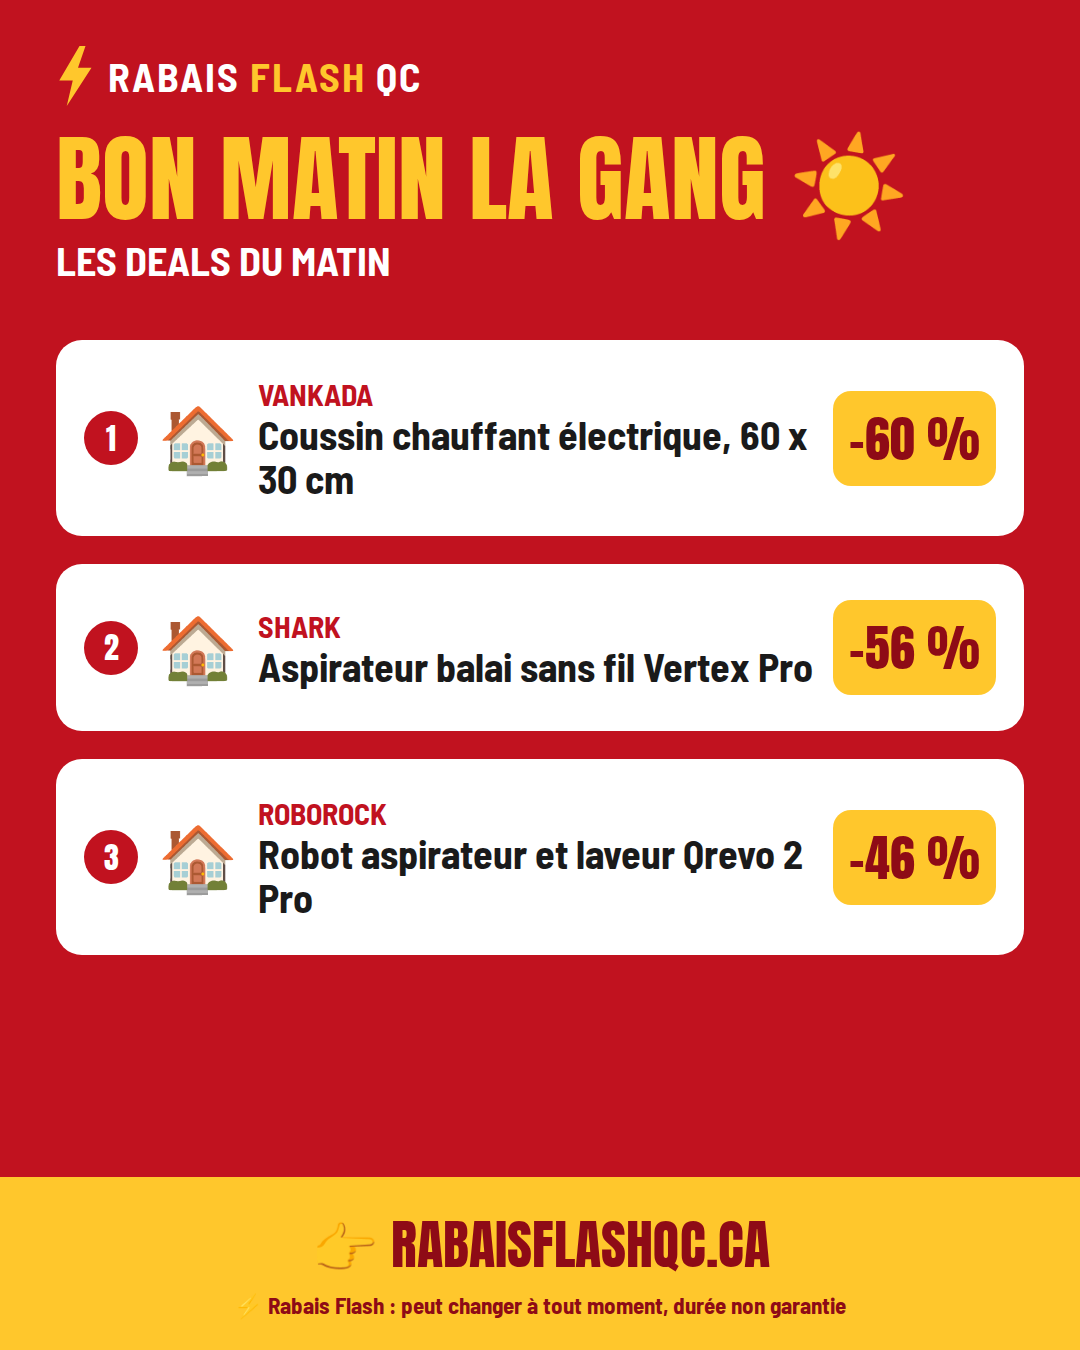
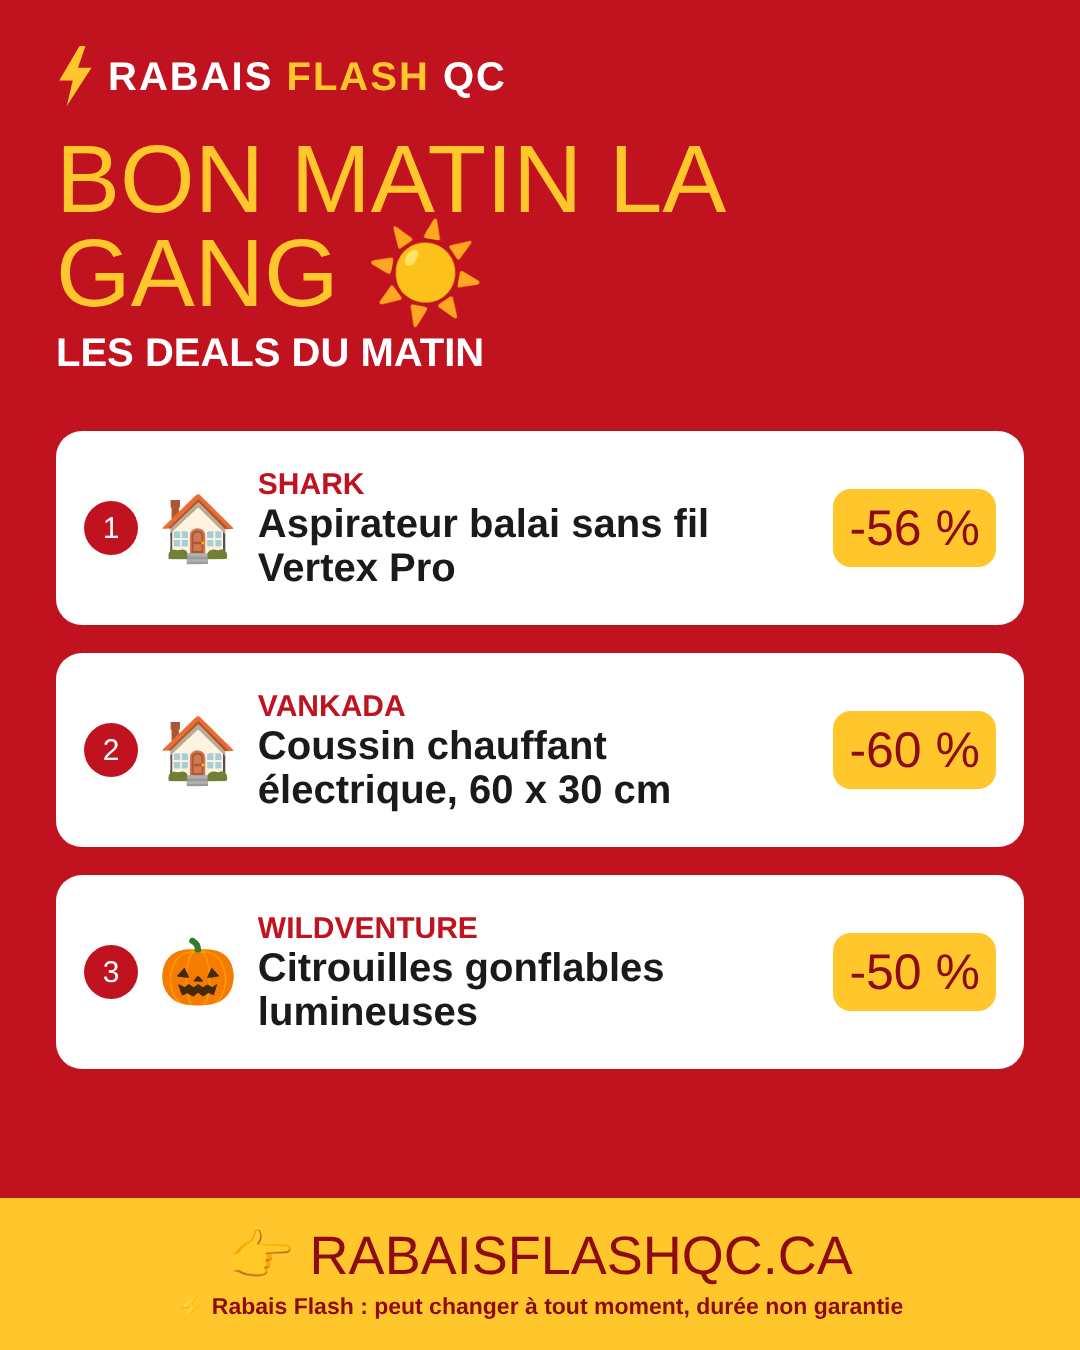
Top 5 mis a jour: mix maison, Halloween, animaux; pack du matin regenere
Claude-Session: https://claude.ai/code/session_01DR6gpqshLdvyi6vrRKu2Nf

diff --git a/docs/index.html b/docs/index.html
@@ -77,11 +77,11 @@ body.hw .social a{background:#140A1F;color:#FFD9B8;border-color:#FF7518}body.hw 
 <main class="wrap"><nav aria-label="Thèmes"><a href="/" aria-current="page">Accueil</a><a href="/halloween/">🎃 Halloween</a><a href="/vendredi-fou/">Vendredi fou</a><a href="/idees-cadeaux/">Cadeaux</a><a href="/beaute/">Beauté</a><a href="/mode/">Mode</a><a href="/enfants/">Enfants</a><a href="/epicerie/">Épicerie</a><a href="/maison/">Maison</a><a href="/plein-air/">Plein air</a><a href="/tech/">Tech</a><a href="/animaux/">Animaux</a></nav>
 <div class="clubbar"><span>🔔 Alertes gratuites :</span><a href="https://www.facebook.com/rabaisflashqc" target="_blank" rel="noopener">👍 Aime la page</a><a href="https://m.me/61566039092981" target="_blank" rel="noopener">💬 Messenger</a></div>
 
-<a class="hwcta" href="/halloween/"><div><strong>ENTRE DANS LA ZONE HALLOWEEN</strong><span>Costumes, déco, bonbons et maquillage 👻</span></div><em aria-hidden="true">🎃</em></a><section class="topbox" aria-label="Le Top 5 du jour"><h2>⭐ Le Top 5 du jour</h2><p class="topsub">Nos coups de cœur du moment, choisis un par un. Les rabais peuvent changer à tout moment : clique vite!</p><ol class="top5"><li class="deal" data-price="23.99"><div class="tag">-60%<small>sur Amazon</small></div><div><p class="badges"><span>Offre à durée limitée</span><span>Idée cadeau</span></p><p class="brand">Vankada</p><h3>Coussin chauffant électrique, 60 x 30 cm</h3><p class="why">Plusieurs températures et minuterie, plus de 10 000 avis. Parfait pour les soirées froides qui s&#x27;en viennent.</p><a class="go" href="https://www.amazon.ca/dp/B0CZ6J4LG5?tag=coupdecoeurqc-20" target="_blank" rel="sponsored nofollow noopener">Voir le prix sur Amazon.ca</a></div></li><li class="deal"><div class="tag">-56%<small>sur Amazon</small></div><div><p class="brand">Shark</p><h3>Aspirateur balai sans fil Vertex Pro (IZ662H)</h3><p class="why">Fini de traîner l&#x27;aspirateur à fil de pièce en pièce. Celui-là se promène sans fil, avec plus de 50 % de rabais. Ton dimanche va te dire merci.</p><a class="go" href="https://www.amazon.ca/dp/B098RH3LTB?tag=coupdecoeurqc-20" target="_blank" rel="sponsored nofollow noopener">Voir le prix sur Amazon.ca</a></div></li><li class="deal" data-price="699.99"><div class="tag">-46%<small>sur Amazon</small></div><div><p class="badges"><span>Offre à durée limitée</span><span>Idée cadeau</span></p><p class="brand">Roborock</p><h3>Robot aspirateur et laveur Qrevo 2 Pro</h3><p class="why">Imagine rentrer à la maison et que le plancher soit déjà propre. Il aspire, lave, puis nettoie ses propres vadrouilles, presque à moitié prix.</p><a class="go" href="https://www.amazon.ca/dp/B0GXFHY7Y2?tag=coupdecoeurqc-20" target="_blank" rel="sponsored nofollow noopener">Voir le prix sur Amazon.ca</a></div></li><li class="deal" data-price="529.95"><div class="tag">-41%<small>sur Amazon</small></div><div><p class="badges"><span>Offre Prime en demande</span><span>Idée cadeau</span></p><p class="brand">Vitamix</p><h3>Mélangeur professionnel Propel 750</h3><p class="why">Le blender dont tout le monde parle, bien sous son prix conseillé. Des smoothies le matin, une soupe chaude en 10 minutes le soir.</p><a class="go" href="https://www.amazon.ca/dp/B0BWSJVTCJ?tag=coupdecoeurqc-20" target="_blank" rel="sponsored nofollow noopener">Voir le prix sur Amazon.ca</a></div></li><li class="deal" data-price="7.97"><div class="tag">-36%<small>sur Amazon</small></div><div><p class="badges"><span>Offre réservée Prime</span></p><p class="brand">DreamBone</p><h3>Bâtonnets sans céréales au poulet (10)</h3><p class="why">Parce que ton chien mérite mieux que du cuir brut. Du vrai poulet, sans céréales, à un prix qui fait remuer la queue.</p><a class="go" href="https://www.amazon.ca/dp/B091D46799?tag=coupdecoeurqc-20" target="_blank" rel="sponsored nofollow noopener">Voir le prix sur Amazon.ca</a></div></li></ol></section><p class="chiph">🎁 Je cherche un cadeau pour…</p><p class="more"><a href="/idees-cadeaux/pour-elle/">👩 Elle</a><a href="/idees-cadeaux/pour-lui/">👨 Lui</a><a href="/idees-cadeaux/ado/">🎮 Ado</a><a href="/idees-cadeaux/enfants/">🧸 Enfants</a><a href="/idees-cadeaux/moins-de-25/">💵 Moins de 25 $</a><a href="/idees-cadeaux/moins-de-50/">💰 Moins de 50 $</a></p><h2>Plus de deals</h2>
+<a class="hwcta" href="/halloween/"><div><strong>ENTRE DANS LA ZONE HALLOWEEN</strong><span>Costumes, déco, bonbons et maquillage 👻</span></div><em aria-hidden="true">🎃</em></a><section class="topbox" aria-label="Le Top 5 du jour"><h2>⭐ Le Top 5 du jour</h2><p class="topsub">Nos coups de cœur du moment, choisis un par un. Les rabais peuvent changer à tout moment : clique vite!</p><ol class="top5"><li class="deal"><div class="tag">-56%<small>sur Amazon</small></div><div><p class="brand">Shark</p><h3>Aspirateur balai sans fil Vertex Pro (IZ662H)</h3><p class="why">Fini de traîner l&#x27;aspirateur à fil de pièce en pièce. Celui-là se promène sans fil, avec plus de 50 % de rabais. Ton dimanche va te dire merci.</p><a class="go" href="https://www.amazon.ca/dp/B098RH3LTB?tag=coupdecoeurqc-20" target="_blank" rel="sponsored nofollow noopener">Voir le prix sur Amazon.ca</a></div></li><li class="deal" data-price="23.99"><div class="tag">-60%<small>sur Amazon</small></div><div><p class="badges"><span>Offre à durée limitée</span><span>Idée cadeau</span></p><p class="brand">Vankada</p><h3>Coussin chauffant électrique, 60 x 30 cm</h3><p class="why">Les nuits fraîches arrivent. Un coussin chauffant à moins de la moitié du prix : pour le dos, le cou ou juste les pieds froids devant la télé.</p><a class="go" href="https://www.amazon.ca/dp/B0CZ6J4LG5?tag=coupdecoeurqc-20" target="_blank" rel="sponsored nofollow noopener">Voir le prix sur Amazon.ca</a></div></li><li class="deal" data-price="45.82"><div class="tag">-50%<small>sur Amazon</small></div><div><p class="badges"><span>Offre à durée limitée</span></p><p class="brand">WildVenture</p><h3>Citrouilles gonflables lumineuses (2,3 m)</h3><p class="why">Le 31 octobre arrive vite. Sept citrouilles lumineuses pour la façade, à moitié prix, livrées avant l&#x27;Halloween. Les enfants du quartier vont s&#x27;arrêter devant chez toi.</p><a class="go" href="https://www.amazon.ca/dp/B0HJZ387L8?tag=coupdecoeurqc-20" target="_blank" rel="sponsored nofollow noopener">Voir le prix sur Amazon.ca</a></div></li><li class="deal" data-price="699.99"><div class="tag">-46%<small>sur Amazon</small></div><div><p class="badges"><span>Offre à durée limitée</span><span>Idée cadeau</span></p><p class="brand">Roborock</p><h3>Robot aspirateur et laveur Qrevo 2 Pro</h3><p class="why">Imagine rentrer à la maison et que le plancher soit déjà propre. Il aspire, lave, puis nettoie ses propres vadrouilles, presque à moitié prix.</p><a class="go" href="https://www.amazon.ca/dp/B0GXFHY7Y2?tag=coupdecoeurqc-20" target="_blank" rel="sponsored nofollow noopener">Voir le prix sur Amazon.ca</a></div></li><li class="deal" data-price="7.97"><div class="tag">-36%<small>sur Amazon</small></div><div><p class="badges"><span>Offre réservée Prime</span></p><p class="brand">DreamBone</p><h3>Bâtonnets sans céréales au poulet (10)</h3><p class="why">Parce que ton chien mérite mieux que du cuir brut. Du vrai poulet, sans céréales, à un prix qui fait remuer la queue.</p><a class="go" href="https://www.amazon.ca/dp/B091D46799?tag=coupdecoeurqc-20" target="_blank" rel="sponsored nofollow noopener">Voir le prix sur Amazon.ca</a></div></li></ol></section><p class="chiph">🎁 Je cherche un cadeau pour…</p><p class="more"><a href="/idees-cadeaux/pour-elle/">👩 Elle</a><a href="/idees-cadeaux/pour-lui/">👨 Lui</a><a href="/idees-cadeaux/ado/">🎮 Ado</a><a href="/idees-cadeaux/enfants/">🧸 Enfants</a><a href="/idees-cadeaux/moins-de-25/">💵 Moins de 25 $</a><a href="/idees-cadeaux/moins-de-50/">💰 Moins de 50 $</a></p><h2>Plus de deals</h2>
 <div class="bud" role="group" aria-label="Filtrer par budget"><button aria-pressed="true" data-b="0-1e9">Tous les prix</button><button aria-pressed="false" data-b="0-25">Moins de 25 $</button><button aria-pressed="false" data-b="0-50">Moins de 50 $</button><button aria-pressed="false" data-b="50-100">50 à 100 $</button><button aria-pressed="false" data-b="100-1e9">100 $ et plus</button></div>
 <script>document.addEventListener("click",function(ev){var b=ev.target.closest(".bud button");if(!b)return;var r=b.dataset.b.split("-").map(Number);b.parentNode.querySelectorAll("button").forEach(function(x){x.setAttribute("aria-pressed",x===b)});document.querySelectorAll("ul.deals>li").forEach(function(li){var p=parseFloat(li.dataset.price);li.hidden=r[0]===0&&r[1]>1e8?false:!(p>=r[0]&&p<=r[1]);});});</script>
 <p class="note">⚡ Y'a une raison si on s'appelle <b>Flash</b> : certains rabais durent très peu de temps. Amazon et les marques peuvent les modifier ou y mettre fin à tout moment, et on ne peut pas le garantir. Si le prix a bougé quand tu arrives, c'est que l'offre a changé. Clique vite quand un deal te tente!</p>
-<ul class="deals"><li class="deal"><div class="tag">-60%<small>sur Amazon</small></div><div><p class="badges"><span>Idée cadeau</span></p><p class="brand">JBL</p><h3>Casque antibruit Tour One M3</h3><p class="why">Le casque haut de gamme de JBL, avec réduction de bruit intelligente.</p><a class="go" href="https://www.amazon.ca/dp/B0F9XNPSH5?tag=coupdecoeurqc-20" target="_blank" rel="sponsored nofollow noopener">Voir le prix sur Amazon.ca</a></div></li><li class="deal" data-price="45.82"><div class="tag">-50%<small>sur Amazon</small></div><div><p class="badges"><span>Offre à durée limitée</span></p><p class="brand">WildVenture</p><h3>Citrouilles gonflables lumineuses (2,3 m)</h3><p class="why">Sept citrouilles illuminées qui se gonflent en quelques minutes. Arrivent bien avant le 31.</p><a class="go" href="https://www.amazon.ca/dp/B0HJZ387L8?tag=coupdecoeurqc-20" target="_blank" rel="sponsored nofollow noopener">Voir le prix sur Amazon.ca</a></div></li><li class="deal"><div class="tag">-48%<small>sur Amazon</small></div><div><p class="brand">Clover Leaf</p><h3>Thon pâle en morceaux (24 boîtes de 170 g)</h3><p class="why">Le gros format presque à moitié prix. Plus de 3 000 achetés le mois dernier.</p><a class="go" href="https://www.amazon.ca/s?k=Clover+Leaf+thon+p%C3%A2le+en+morceaux+dans+l%27eau+170+g+24+bo%C3%AEtes&amp;tag=coupdecoeurqc-20" target="_blank" rel="sponsored nofollow noopener">Voir le prix sur Amazon.ca</a></div></li><li class="deal" data-until="2026-10-11T07:00:00Z" data-price="299.99"><div class="tag">-45%<small>sur Amazon</small></div><div><p class="badges"><span>Finit ce soir</span><span>Idée cadeau</span></p><p class="brand">Shark</p><h3>FlexFusion HD654SC, fer à lisser et sèche-cheveux 2 en 1</h3><p class="why">Sèche et coiffe en un seul passage, avec un mode qui protège le cuir chevelu. Prix exclusif Prime.</p><a class="go" href="https://www.amazon.ca/dp/B0HGYXP1V3?tag=coupdecoeurqc-20" target="_blank" rel="sponsored nofollow noopener">Voir le prix sur Amazon.ca</a></div></li><li class="deal" data-price="179.99"><div class="tag">-45%<small>sur Amazon</small></div><div><p class="badges"><span>Offre à durée limitée</span><span>Idée cadeau</span></p><p class="brand">Cuisinart</p><h3>Machine à pain 16 programmes, acier inoxydable</h3><p class="why">Cuisson par convection, distributeur de fruits et noix. Choix d&#x27;Amazon. Le plus bas prix de la liste.</p><a class="go" href="https://www.amazon.ca/dp/B0CLQ2NB6G?tag=coupdecoeurqc-20" target="_blank" rel="sponsored nofollow noopener">Voir le prix sur Amazon.ca</a></div></li><li class="deal"><div class="tag">-45%<small>sur Amazon</small></div><div><p class="badges"><span>Idée cadeau</span></p><p class="brand">Sony</p><h3>Casque à réduction de bruit WH-CH720N</h3><p class="why">Léger, confortable, jusqu&#x27;à 35 heures d&#x27;autonomie.</p><a class="go" href="https://www.amazon.ca/dp/B0BS1QCFHX?tag=coupdecoeurqc-20" target="_blank" rel="sponsored nofollow noopener">Voir le prix sur Amazon.ca</a></div></li><li class="deal"><div class="tag">-44%<small>sur Amazon</small></div><div><p class="badges"><span>Offre à forte demande</span></p><p class="brand">Ninja</p><h3>Mélangeur professionnel BL660C</h3><p class="why">Choix d&#x27;Amazon, plus de 1 000 achetés le mois dernier. Smoothies et boissons glacées en quelques secondes.</p><a class="go" href="https://www.amazon.ca/dp/B0741VXTPW?tag=coupdecoeurqc-20" target="_blank" rel="sponsored nofollow noopener">Voir le prix sur Amazon.ca</a></div></li><li class="deal" data-price="169.99"><div class="tag">-43%<small>sur Amazon</small></div><div><p class="badges"><span>Offre à durée limitée</span><span>Idée cadeau</span></p><p class="brand">Ninja</p><h3>Four grille-pain rabattable et friteuse à air 8 en 1</h3><p class="why">Il se range contre le mur et récupère la moitié de l&#x27;espace. Pizza de 12 po, friture à l&#x27;air, rôtissage.</p><a class="go" href="https://www.amazon.ca/dp/B0DBNTYL27?tag=coupdecoeurqc-20" target="_blank" rel="sponsored nofollow noopener">Voir le prix sur Amazon.ca</a></div></li></ul>
+<ul class="deals"><li class="deal"><div class="tag">-60%<small>sur Amazon</small></div><div><p class="badges"><span>Idée cadeau</span></p><p class="brand">JBL</p><h3>Casque antibruit Tour One M3</h3><p class="why">Le casque haut de gamme de JBL, avec réduction de bruit intelligente.</p><a class="go" href="https://www.amazon.ca/dp/B0F9XNPSH5?tag=coupdecoeurqc-20" target="_blank" rel="sponsored nofollow noopener">Voir le prix sur Amazon.ca</a></div></li><li class="deal"><div class="tag">-48%<small>sur Amazon</small></div><div><p class="brand">Clover Leaf</p><h3>Thon pâle en morceaux (24 boîtes de 170 g)</h3><p class="why">Le gros format presque à moitié prix. Plus de 3 000 achetés le mois dernier.</p><a class="go" href="https://www.amazon.ca/s?k=Clover+Leaf+thon+p%C3%A2le+en+morceaux+dans+l%27eau+170+g+24+bo%C3%AEtes&amp;tag=coupdecoeurqc-20" target="_blank" rel="sponsored nofollow noopener">Voir le prix sur Amazon.ca</a></div></li><li class="deal" data-until="2026-10-11T07:00:00Z" data-price="299.99"><div class="tag">-45%<small>sur Amazon</small></div><div><p class="badges"><span>Finit ce soir</span><span>Idée cadeau</span></p><p class="brand">Shark</p><h3>FlexFusion HD654SC, fer à lisser et sèche-cheveux 2 en 1</h3><p class="why">Sèche et coiffe en un seul passage, avec un mode qui protège le cuir chevelu. Prix exclusif Prime.</p><a class="go" href="https://www.amazon.ca/dp/B0HGYXP1V3?tag=coupdecoeurqc-20" target="_blank" rel="sponsored nofollow noopener">Voir le prix sur Amazon.ca</a></div></li><li class="deal" data-price="179.99"><div class="tag">-45%<small>sur Amazon</small></div><div><p class="badges"><span>Offre à durée limitée</span><span>Idée cadeau</span></p><p class="brand">Cuisinart</p><h3>Machine à pain 16 programmes, acier inoxydable</h3><p class="why">Cuisson par convection, distributeur de fruits et noix. Choix d&#x27;Amazon. Le plus bas prix de la liste.</p><a class="go" href="https://www.amazon.ca/dp/B0CLQ2NB6G?tag=coupdecoeurqc-20" target="_blank" rel="sponsored nofollow noopener">Voir le prix sur Amazon.ca</a></div></li><li class="deal"><div class="tag">-45%<small>sur Amazon</small></div><div><p class="badges"><span>Idée cadeau</span></p><p class="brand">Sony</p><h3>Casque à réduction de bruit WH-CH720N</h3><p class="why">Léger, confortable, jusqu&#x27;à 35 heures d&#x27;autonomie.</p><a class="go" href="https://www.amazon.ca/dp/B0BS1QCFHX?tag=coupdecoeurqc-20" target="_blank" rel="sponsored nofollow noopener">Voir le prix sur Amazon.ca</a></div></li><li class="deal"><div class="tag">-44%<small>sur Amazon</small></div><div><p class="badges"><span>Offre à forte demande</span></p><p class="brand">Ninja</p><h3>Mélangeur professionnel BL660C</h3><p class="why">Choix d&#x27;Amazon, plus de 1 000 achetés le mois dernier. Smoothies et boissons glacées en quelques secondes.</p><a class="go" href="https://www.amazon.ca/dp/B0741VXTPW?tag=coupdecoeurqc-20" target="_blank" rel="sponsored nofollow noopener">Voir le prix sur Amazon.ca</a></div></li><li class="deal" data-price="169.99"><div class="tag">-43%<small>sur Amazon</small></div><div><p class="badges"><span>Offre à durée limitée</span><span>Idée cadeau</span></p><p class="brand">Ninja</p><h3>Four grille-pain rabattable et friteuse à air 8 en 1</h3><p class="why">Il se range contre le mur et récupère la moitié de l&#x27;espace. Pizza de 12 po, friture à l&#x27;air, rôtissage.</p><a class="go" href="https://www.amazon.ca/dp/B0DBNTYL27?tag=coupdecoeurqc-20" target="_blank" rel="sponsored nofollow noopener">Voir le prix sur Amazon.ca</a></div></li><li class="deal" data-price="39.98"><div class="tag">-43%<small>sur Amazon</small></div><div><p class="badges"><span>Offre à forte demande</span><span>Idée cadeau</span></p><p class="brand">JBL</p><h3>Casque sans fil Tune 520BT</h3><p class="why">57 heures d&#x27;autonomie, pliable et léger. Plus de 16 000 avis et 4,5 étoiles.</p><a class="go" href="https://www.amazon.ca/dp/B0C1HGKNG7?tag=coupdecoeurqc-20" target="_blank" rel="sponsored nofollow noopener">Voir le prix sur Amazon.ca</a></div></li></ul>
 <h2>Les offres de tes marques préférées</h2><p class="more"><a href="https://www.amazon.ca/stores/page/89796D4D-40B5-4BD1-8AA5-D49C0D4169F5/deals?tag=coupdecoeurqc-20" target="_blank" rel="sponsored nofollow noopener">Clarins</a><a href="https://www.amazon.ca/stores/page/C5777090-275F-4D6F-90CD-66D71618A439/deals?tag=coupdecoeurqc-20" target="_blank" rel="sponsored nofollow noopener">Lancôme</a><a href="https://www.amazon.ca/-/fr/s?k=k%C3%A9rastase&amp;rh=p_n_deal_type%3A23565508011&amp;linkCode=ll2&amp;tag=coupdecoeurqc-20&amp;linkId=cc14a5c4740d3d169200bbd1ec695bcf&amp;ref_=as_li_ss_tl" target="_blank" rel="sponsored nofollow noopener">Kérastase</a><a href="https://www.amazon.ca/stores/page/CEB243C4-722B-4E2E-918D-C6E0CBF7C399/deals?tag=coupdecoeurqc-20" target="_blank" rel="sponsored nofollow noopener">Ninja</a><a href="https://www.amazon.ca/stores/page/E900894B-04A7-48D0-9469-B7DB5053C52C/deals?tag=coupdecoeurqc-20" target="_blank" rel="sponsored nofollow noopener">Nespresso</a><a href="https://www.amazon.ca/stores/page/191773F2-BF61-4DCD-B8D6-36C429836E1B/deals?tag=coupdecoeurqc-20" target="_blank" rel="sponsored nofollow noopener">Shark</a><a href="https://www.amazon.ca/stores/page/EF483695-FDFE-4AA1-8387-41A4E75D6059/deals?tag=coupdecoeurqc-20" target="_blank" rel="sponsored nofollow noopener">Apple</a><a href="https://www.amazon.ca/stores/page/36FED04A-859F-4C7E-91B6-E4025E6CF18C/deals?ingress=2&amp;lp_context_asin=B0C33XXS56&amp;lp_context_query=sony&amp;store_ref=bl_ast_dp_brandlogo_sto&amp;linkCode=ll2&amp;tag=coupdecoeurqc-20&amp;ref_=as_li_ss_tl" target="_blank" rel="sponsored nofollow noopener">Sony</a><a href="https://www.amazon.ca/stores/page/FF431665-A45E-4E33-9DF0-5087C2C42B98/deals?tag=coupdecoeurqc-20" target="_blank" rel="sponsored nofollow noopener">Bose</a><a href="https://www.amazon.ca/stores/page/AB065105-A748-4F1B-90AF-F355AEB210D8/deals?tag=coupdecoeurqc-20" target="_blank" rel="sponsored nofollow noopener">LEGO</a><a href="https://www.amazon.ca/stores/page/57352AFD-8FA7-4764-9A8F-E1C0C8CC4E3C/deals?linkCode=ll2&amp;tag=coupdecoeurqc-20&amp;linkId=fc94141f9472572e2d4b357dc769d3a2&amp;ref_=as_li_ss_tl" target="_blank" rel="sponsored nofollow noopener">Yupik</a><a href="https://www.amazon.ca/stores/page/FE761FCA-58D3-4FB0-B84F-587C8C9C4AA3/deals?tag=coupdecoeurqc-20" target="_blank" rel="sponsored nofollow noopener">La Roche-Posay</a></p><h2>Voir tous les deals par thème</h2><p class="more"><a href="/halloween/">🎃 Halloween</a><a href="/idees-cadeaux/">Cadeaux</a><a href="/beaute/">Beauté</a><a href="/mode/">Mode</a><a href="/enfants/">Enfants</a><a href="/epicerie/">Épicerie</a><a href="/maison/">Maison</a><a href="/plein-air/">Plein air</a><a href="/tech/">Tech</a><a href="/animaux/">Animaux</a></p>
 <section class="club" aria-label="Rejoins la gang"><h2>🔔 Ne paie plus jamais le gros prix</h2><p>Rejoins la gang et reçois <b>gratuitement</b> les meilleures aubaines avant tout le monde :</p><ul><li>🔥 Les deals du <b>Vendredi fou</b> en primeur</li><li>🎁 Le <b>Guide cadeaux</b> de Noël par budget</li><li>⚡ Les offres éclair avant qu'elles disparaissent</li></ul><p class="soon">📬 Inscriptions à l'infolettre très bientôt. En attendant, active les alertes Messenger 👇</p><div class="social"><a href="https://www.facebook.com/rabaisflashqc" target="_blank" rel="noopener"><b>👍</b>Aime la page</a><a href="https://www.facebook.com/rabaisflashqc" target="_blank" rel="noopener"><b>🔔</b>Active les notifs</a><a class="ms" href="https://m.me/61566039092981" target="_blank" rel="noopener"><b>💬</b>Alertes Messenger</a></div><p class="small">Pour les notifications : sur notre page Facebook, touche « Suivre », puis la cloche, et choisis « Toutes les publications ». Zéro pourriel, promis.</p></section>
 <footer><p>Les rabais sont fixés par Amazon et par les marques, qui peuvent les modifier ou y mettre fin à tout moment, sans préavis. Leur durée n'est jamais garantie. Vérifie toujours le prix actuel sur Amazon.ca avant d'acheter.</p>

diff --git a/docs/pack-du-jour/index.html b/docs/pack-du-jour/index.html
@@ -10,11 +10,13 @@ button,.btn{display:inline-block;font:700 16px inherit;background:var(--red);col
 .w{background:#FFF1C7;border-radius:10px;padding:10px 12px;font-size:15px}.steps{background:#fff;border-radius:18px;padding:14px 16px;margin:14px 0}.steps ol{margin:6px 0 0 18px;padding:0}
 </style></head><body><header><h1>⚡ Pack du jour</h1><p>Page privée de Rabais Flash QC. Copie, télécharge, publie.</p></header><main>
 <div class="steps"><b>Comment publier (2 minutes)</b><ol><li>Télécharge l'image (ou le Reel) et copie le texte.</li><li>Publie sur ta page Facebook.</li><li>Colle le premier commentaire et épingle-le.</li></ol></div>
-<section class="c"><h2>☀ Post de 7 h</h2><p class="m">Préparé le 2026-10-10 09:19 (heure du Québec)</p><img src="matin.png?v=202610100919" alt="Image du post"><p><a class="btn" href="matin.png?v=202610100919" download>⬇ Télécharger l'image</a></p><h3>Texte du post</h3><pre id="matin-t">😴 Pas le temps de chercher ce matin? On l&#x27;a fait pour toi.
+<section class="c"><h2>☀ Post de 7 h</h2><p class="m">Préparé le 2026-10-10 09:23 (heure du Québec)</p><img src="matin.png?v=202610100923" alt="Image du post"><p><a class="btn" href="matin.png?v=202610100923" download>⬇ Télécharger l'image</a></p><h3>Texte du post</h3><pre id="matin-t">😴 Pas le temps de chercher ce matin? On l&#x27;a fait pour toi.
 
-🏠 Vankada : Coussin chauffant électrique, 60 x 30 cm (-60 %)
+Fini de traîner l&#x27;aspirateur à fil de pièce en pièce. Celui-là se promène sans fil, avec plus de 50 % de rabais. Ton dimanche va te dire merci.
+
 🏠 Shark : Aspirateur balai sans fil Vertex Pro (-56 %)
-🏠 Roborock : Robot aspirateur et laveur Qrevo 2 Pro (-46 %)
+🏠 Vankada : Coussin chauffant électrique, 60 x 30 cm (-60 %)
+🎃 WildVenture : Citrouilles gonflables lumineuses (-50 %)
 
 👉 Tous les deals triés, sans chercher : https://rabaisflashqc.ca
 
